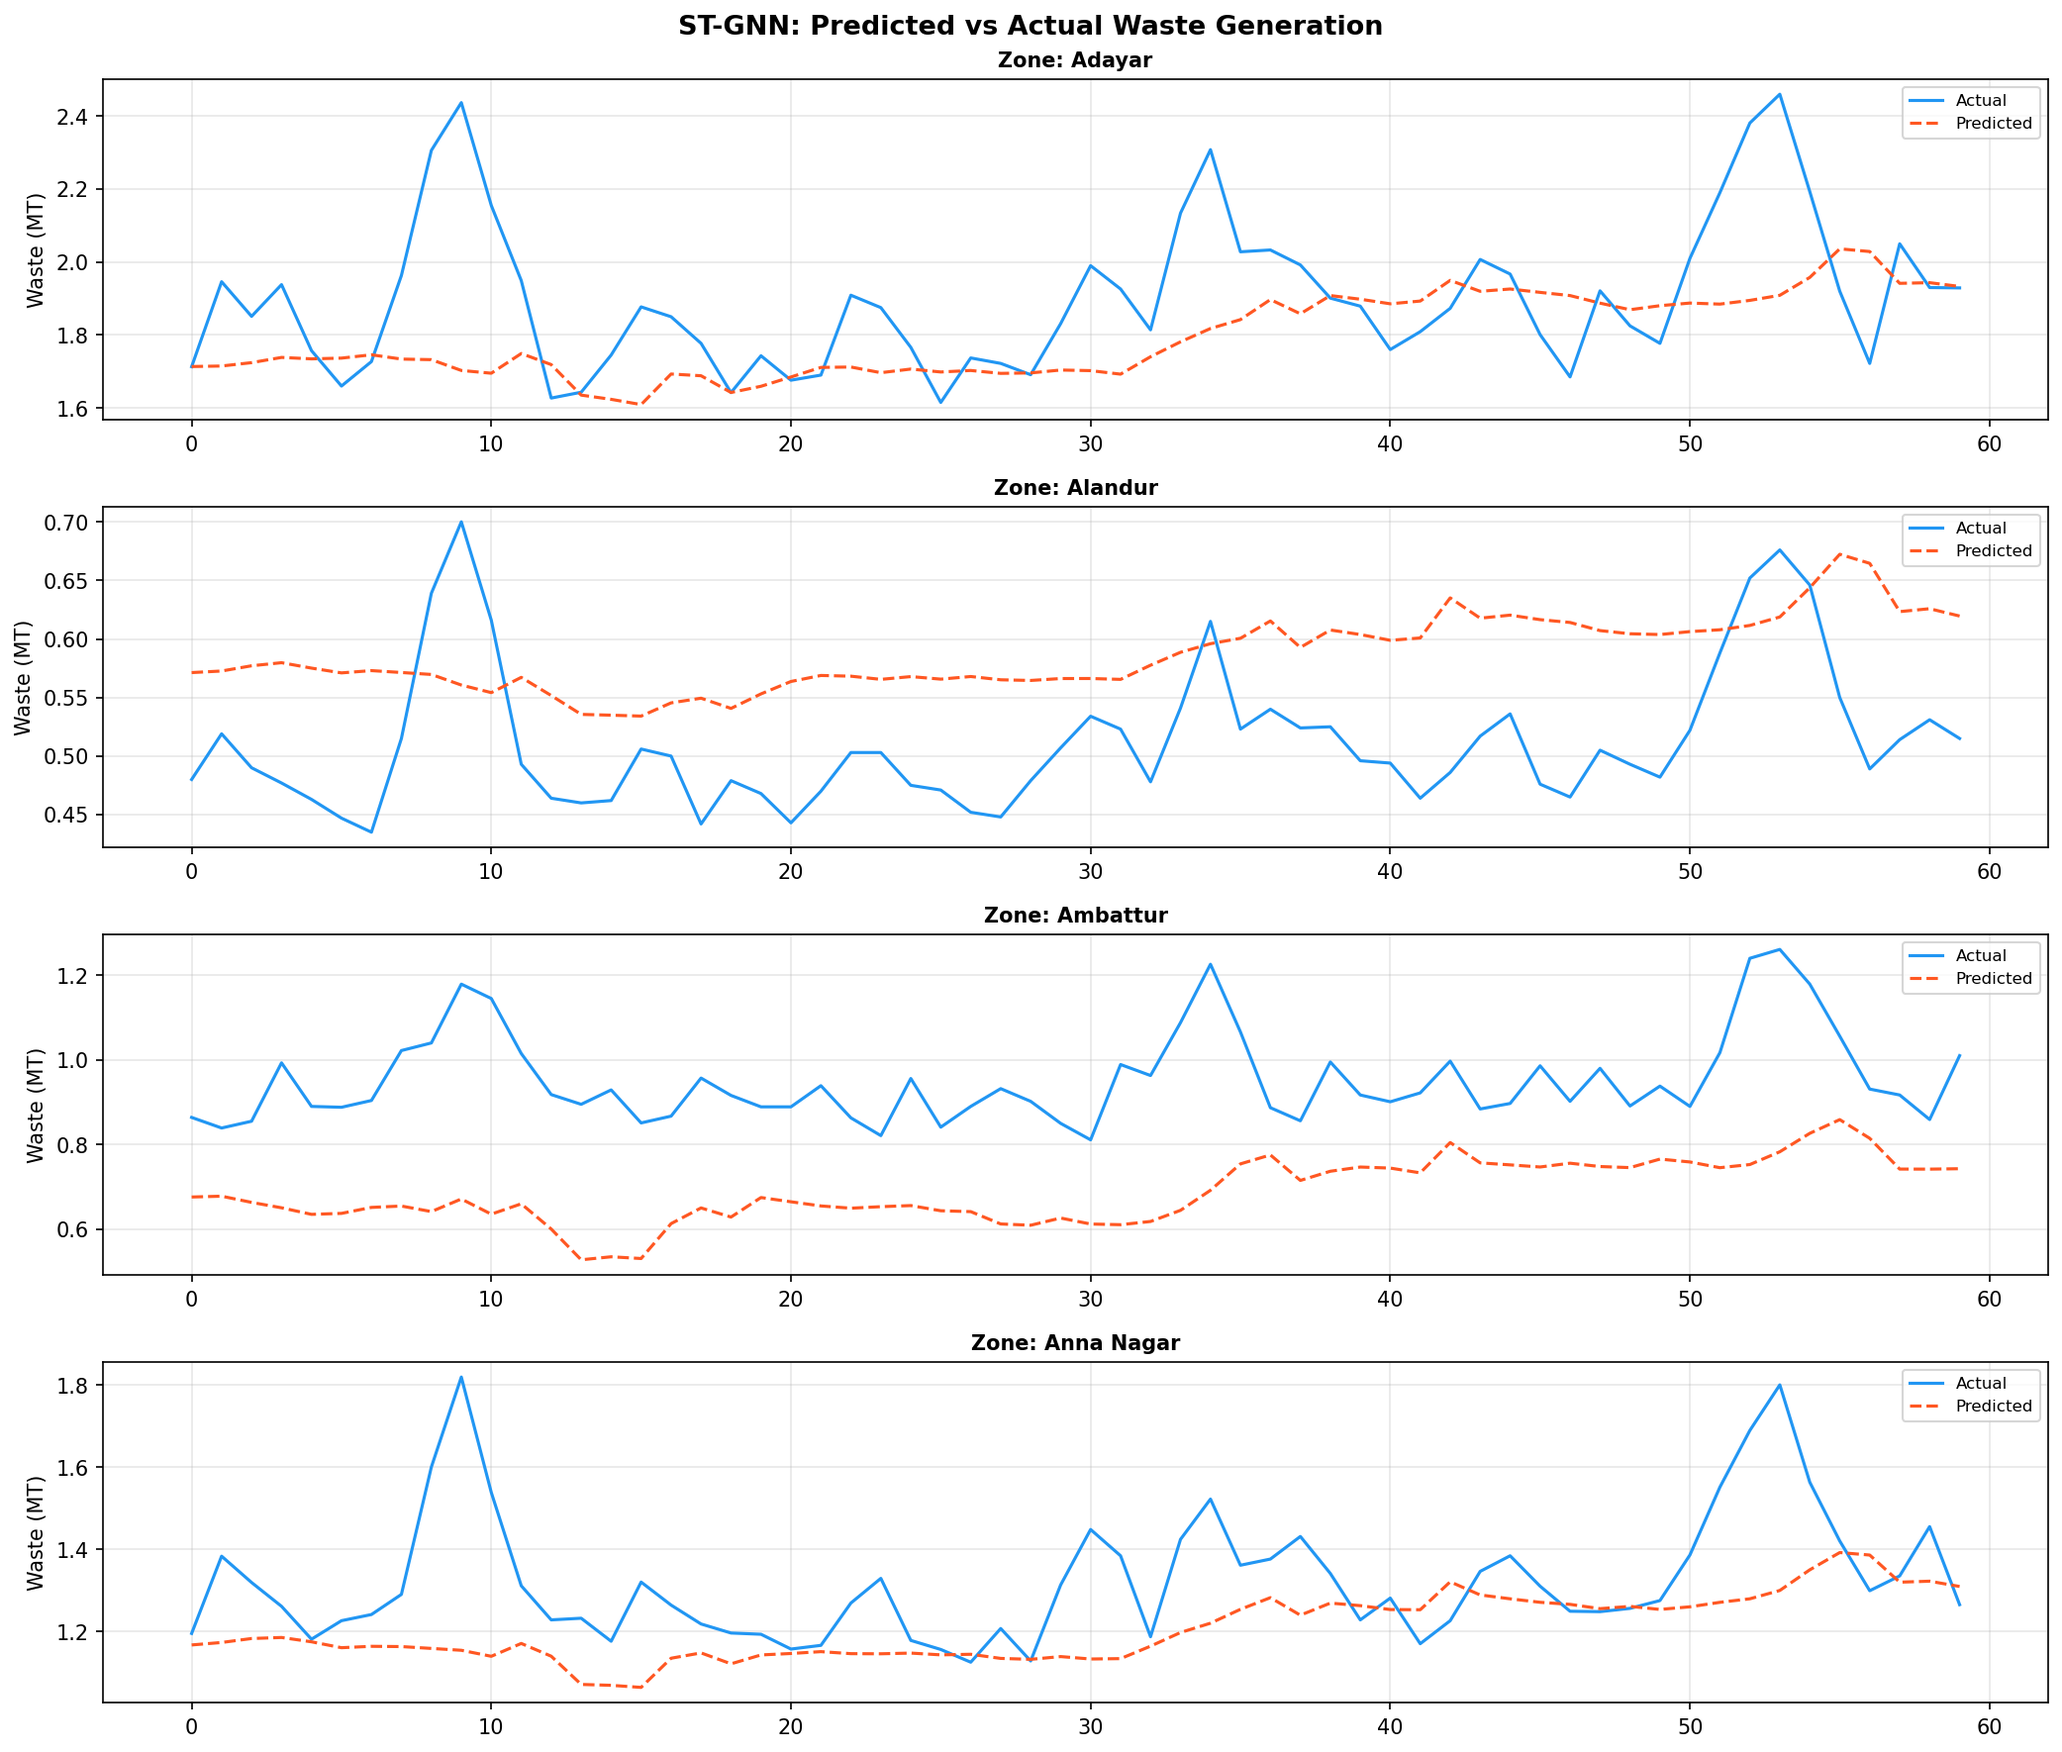
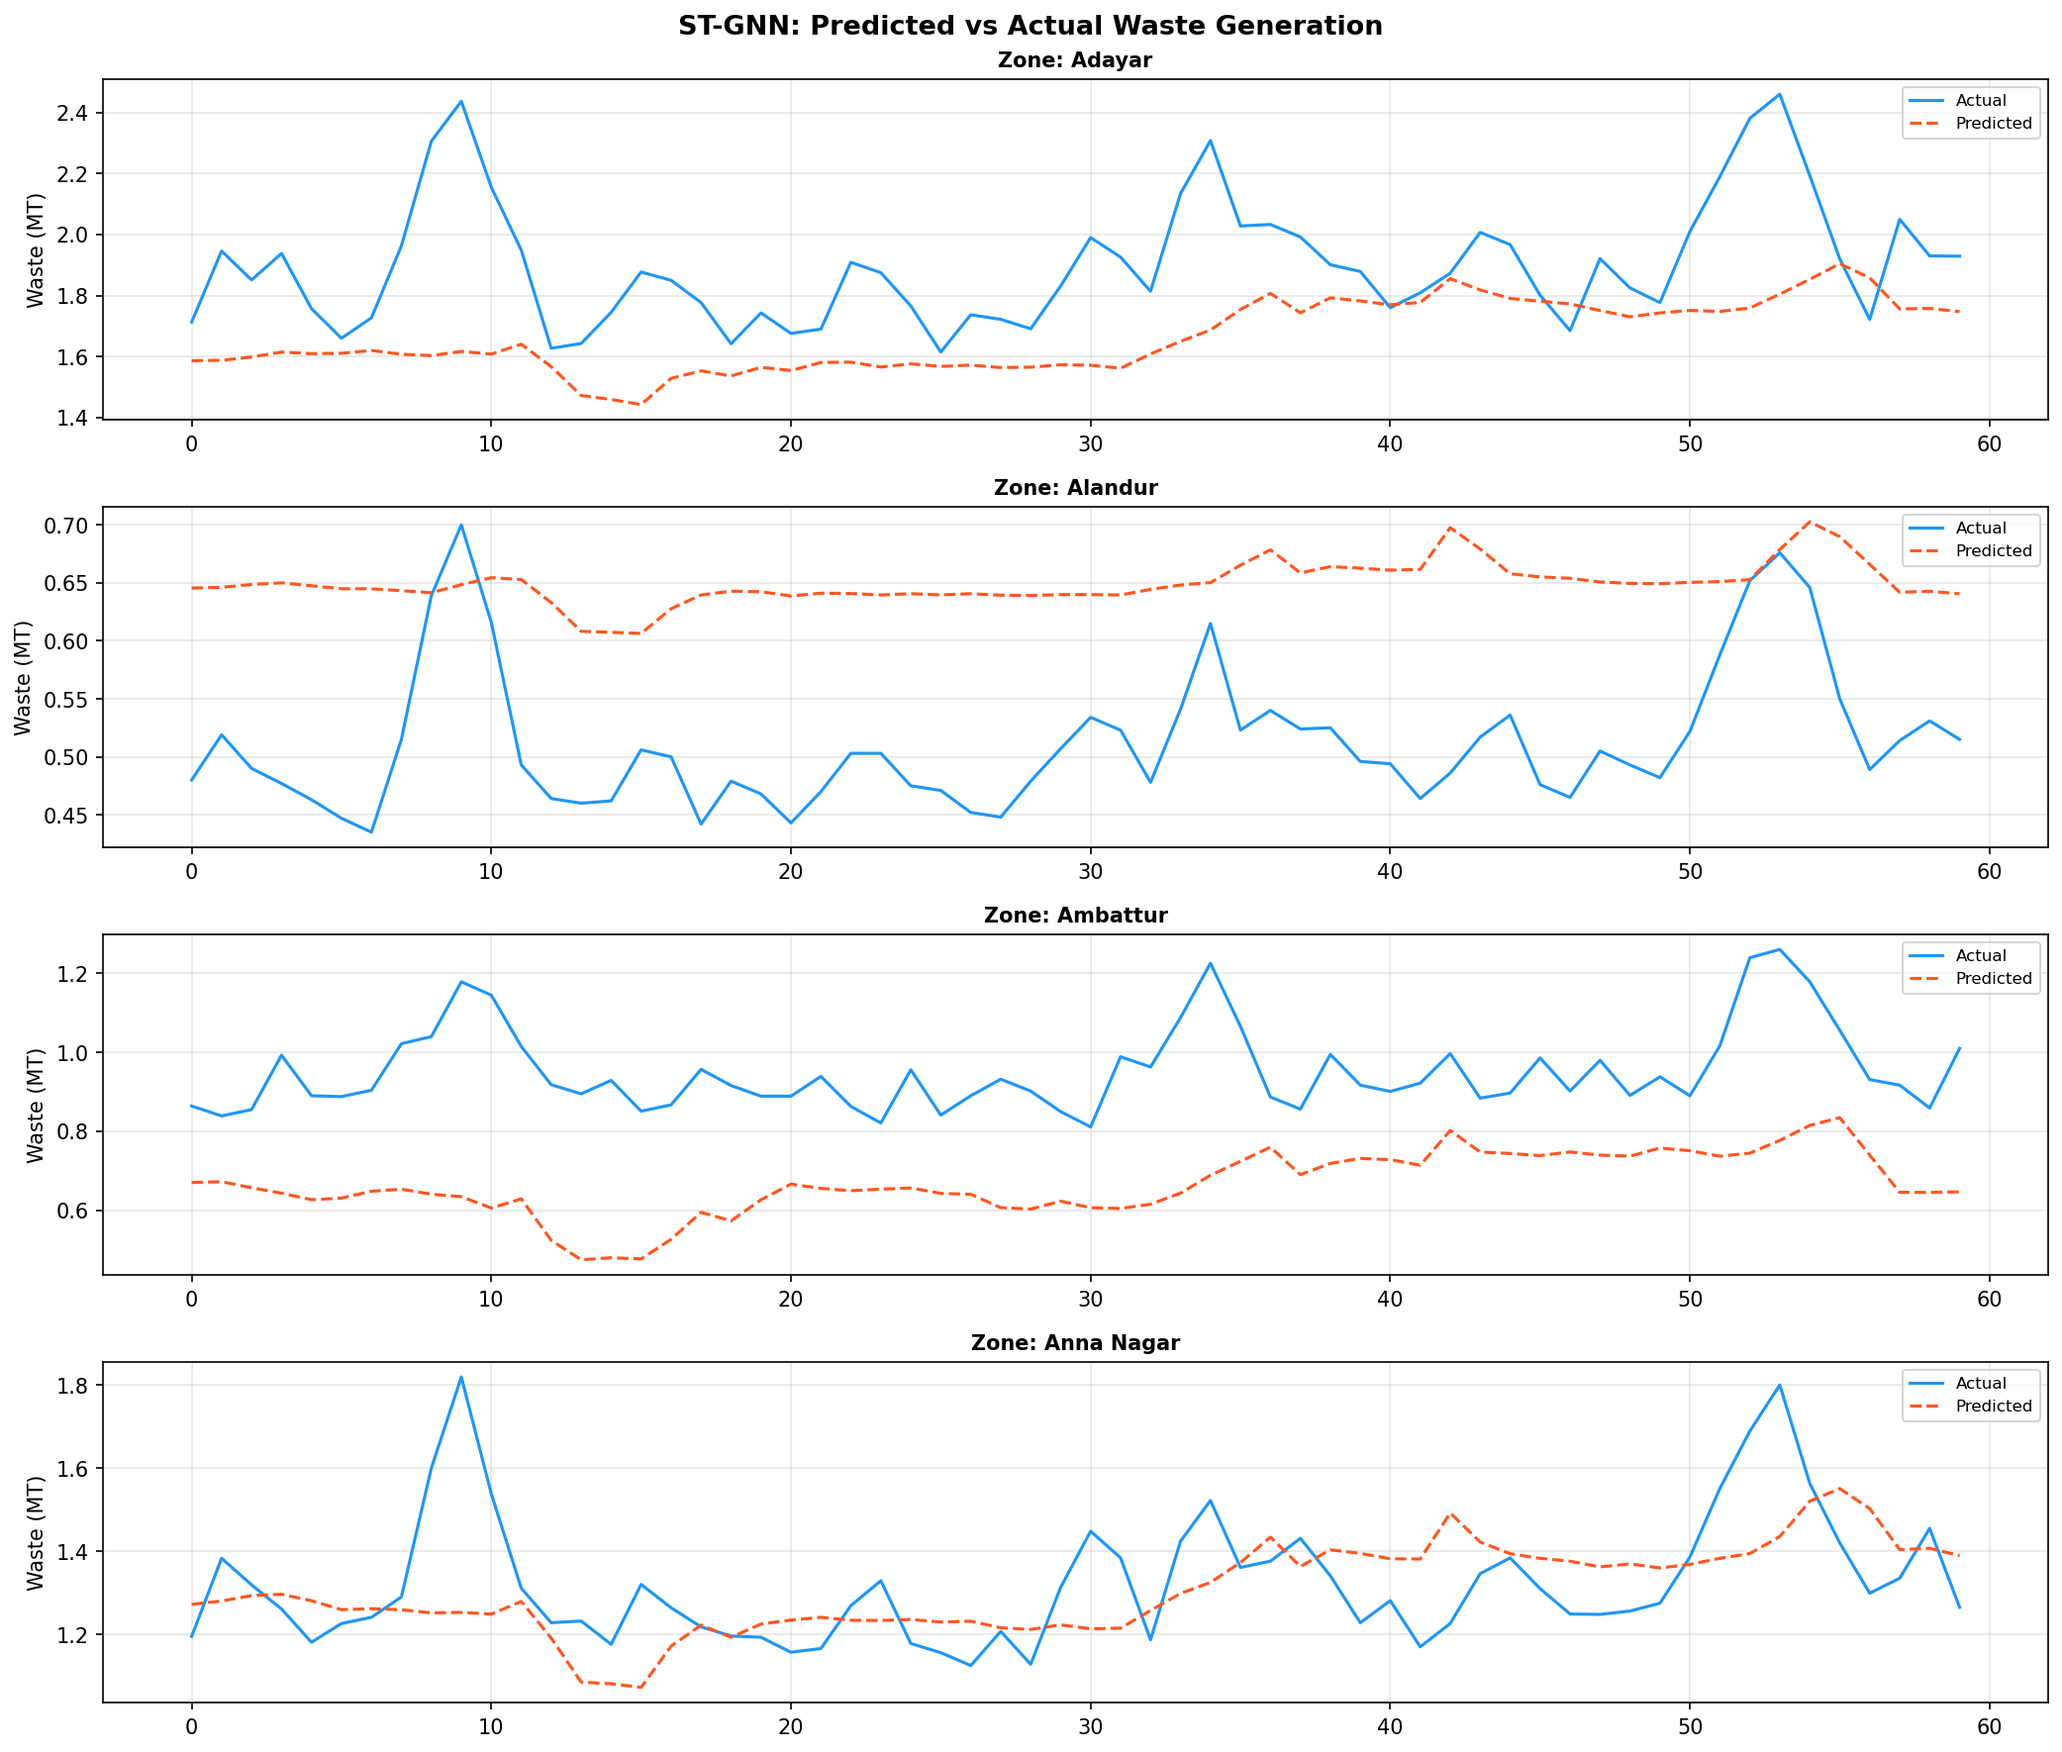
Fix Render training metrics serialization

diff --git a/st_gnn_waste/train.py b/st_gnn_waste/train.py
@@ -411,12 +411,23 @@ def main():
     print(f"  ST-GNN reduces MAE by {rf_improve:.1f}% vs Random Forest")
 
     # ── Save metrics ─────────────────────────────────────────────────────────
+    def json_metric(value):
+        return round(float(value), 3)
+
     metrics = {
-        "stgnn":          {"mae": round(stgnn_mae, 3), "rmse": round(stgnn_rmse, 3)},
-        "moving_average": {"mae": round(ma_mae,    3), "rmse": round(ma_rmse,    3)},
-        "random_forest":  {"mae": round(rf_mae,    3), "rmse": round(rf_rmse,    3)},
+        "stgnn": {
+            "mae": json_metric(stgnn_mae),
+            "rmse": json_metric(stgnn_rmse),
+        },
+        "moving_average": {
+            "mae": json_metric(ma_mae),
+            "rmse": json_metric(ma_rmse),
+        },
+        "random_forest": {
+            "mae": json_metric(rf_mae),
+            "rmse": json_metric(rf_rmse),
+        },
     }
-    import json
     with open(MODELS_DIR / "metrics.json", "w") as f:
         json.dump(metrics, f, indent=2)
 
